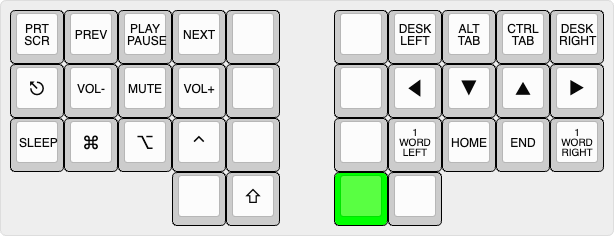
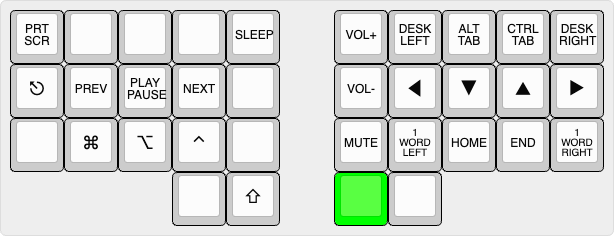
Moving volume buttons

diff --git a/firmware/kahboard/keymaps/mac/keymap.c b/firmware/kahboard/keymaps/mac/keymap.c
@@ -109,9 +109,9 @@ const uint16_t PROGMEM keymaps[][MATRIX_ROWS][MATRIX_COLS] = {
         KC_NO, KC_DEL,                                                          G(C(KC_SPC)), G(KC_SPC)
     ),
     [_NAV] = LAYOUT(
-        G(S(KC_5)), KC_MPRV, KC_MPLY, KC_MNXT, KC_NO,                           KC_NO, C(KC_LEFT), GUI_TAB, CTL_TAB, C(KC_RIGHT),
-        KC_ESC, KC_VOLD, KC_MUTE, KC_VOLU, KC_NO,                               KC_NO, KC_LEFT, KC_DOWN, KC_UP, KC_RIGHT,
-        A(G(KC_EJCT)), KC_LGUI, KC_LALT, KC_RCTL, KC_NO,                        KC_NO, A(KC_LEFT), G(KC_LEFT), G(KC_RIGHT), A(KC_RIGHT),
+        G(S(KC_5)), KC_NO, KC_NO, KC_NO, A(G(KC_EJCT)),                         KC_VOLU, C(KC_LEFT), GUI_TAB, CTL_TAB, C(KC_RIGHT),
+        KC_ESC, KC_MPRV, KC_MPLY, KC_MNXT, KC_NO,                               KC_VOLD, KC_LEFT, KC_DOWN, KC_UP, KC_RIGHT,
+        KC_NO, KC_LGUI, KC_LALT, KC_RCTL, KC_NO,                                KC_MUTE, A(KC_LEFT), G(KC_LEFT), G(KC_RIGHT), A(KC_RIGHT),
         KC_NO, KC_LSFT,                                                         KC_NO, KC_NO
     ),
     [_NUM] = LAYOUT(

diff --git a/firmware/kahboard/keymaps/win/keymap.c b/firmware/kahboard/keymaps/win/keymap.c
@@ -109,9 +109,9 @@ const uint16_t PROGMEM keymaps[][MATRIX_ROWS][MATRIX_COLS] = {
         KC_NO, KC_DEL,                                                          G(KC_DOT), A(KC_SPC)
     ),
     [_NAV] = LAYOUT(
-        KC_PSCR, KC_MPRV, KC_MPLY, KC_MNXT, KC_NO,                              KC_NO, C(G(KC_LEFT)), ALT_TAB, CTL_TAB, C(G(KC_RIGHT)),
-        KC_ESC, KC_VOLD, KC_MUTE, KC_VOLU, KC_NO,                               KC_NO, KC_LEFT, KC_DOWN, KC_UP, KC_RIGHT,
-        KC_PWR, KC_RCTL, KC_LALT, KC_LGUI, KC_NO,                               KC_NO, C(KC_LEFT), KC_HOME, KC_END, C(KC_RIGHT),
+        KC_PSCR, KC_NO, KC_NO, KC_NO, KC_PWR,                                   KC_VOLU, C(G(KC_LEFT)), ALT_TAB, CTL_TAB, C(G(KC_RIGHT)),
+        KC_ESC, KC_MPRV, KC_MPLY, KC_MNXT, KC_NO,                               KC_VOLD, KC_LEFT, KC_DOWN, KC_UP, KC_RIGHT,
+        KC_NO, KC_RCTL, KC_LALT, KC_LGUI, KC_NO,                                KC_MUTE, C(KC_LEFT), KC_HOME, KC_END, C(KC_RIGHT),
         KC_NO, KC_LSFT,                                                         KC_NO, KC_NO
     ),
     [_NUM] = LAYOUT(
